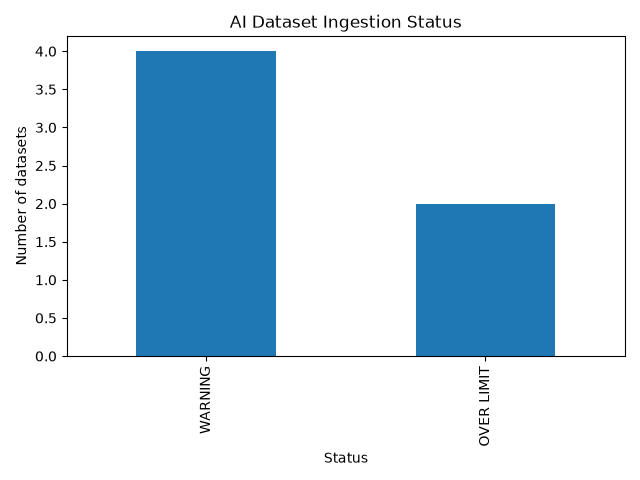
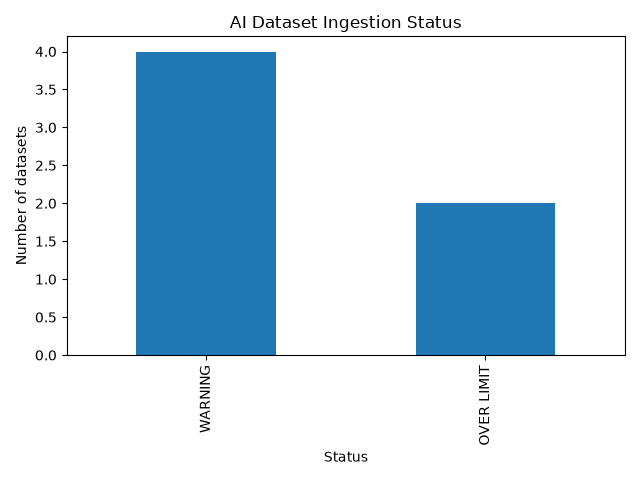
Complete AI data science templates

diff --git a/Week 02/Week 02 - Decisions and Loops/LAB/template.py b/Week 02/Week 02 - Decisions and Loops/LAB/template.py
@@ -1,66 +1,34 @@
-"""
-RECORD CHECK  -  my version
-===========================
+"""Classify AI model confidence scores against a target threshold."""
 
-Name  :
-Lane  :  AI / Cyber / IT      (delete two)
-Date  :
+over_target_count = 0
 
-Run it:   python template.py
+while True:
+    model_name = input("Model name (or 'quit' to finish): ").strip()
+    if model_name.lower() == "quit":
+        break
 
-Work through the numbered sections in order. Each one tells you what it must do.
-Delete these instructions as you replace them with your code.
-"""
+    confidence = float(input("Confidence score (%): "))
+    target = float(input("Target score (%): "))
+    difference = confidence - target
+    percent = (confidence / target) * 100
 
-# ==================================================================== INPUT
-# 1. Ask for your three values.
-#
-#    - the first is TEXT      (a name, a hostname, an IP)  -> no conversion needed
-#    - the second is a NUMBER (use float(), not int())
-#    - the third  is a NUMBER (use float(), not int())
+    if percent >= 100:
+        status = "OVER TARGET"
+        over_target_count += 1
+    elif percent >= 90:
+        status = "WARNING"
+    else:
+        status = "BELOW TARGET"
 
-label = ""      # replace with an input() call
-value = 0.0     # replace with an input() call, converted with float()
-limit = 0.0     # replace with an input() call, converted with float()
+    print()
+    print("=" * 42)
+    print(f"  AI CONFIDENCE CHECK - {model_name}")
+    print("=" * 42)
+    print(f"  Confidence : {confidence:>10.2f} %")
+    print(f"  Target     : {target:>10.2f} %")
+    print(f"  Difference : {difference:>+10.2f} points")
+    print(f"  Relative   : {percent:>10.2f} %")
+    print(f"  Status     : {status}")
+    print("=" * 42)
 
-
-# ================================================================== PROCESS
-# 2. Work out the difference and the percentage.       [Typical and above]
-
-difference = 0.0   # replace with your calculation
-percent = 0.0       # replace with your calculation
-# 3. Decide a status and store it in a variable called status.
-#
-#    Threshold : if / else        -> "OVER LIMIT" or "OK"
-#    Typical   : if / elif / else -> "OVER LIMIT" (100% or more),
-#                                     "WARNING" (90% or more), otherwise "OK"
-
-status = ""   # replace with your if / else (or if / elif / else)
-
-
-# =================================================================== OUTPUT
-# 4. Print the report.
-#
-#    Threshold : the three values you were given, plus status, inside a border
-#    Typical   : add difference and percent, 2 decimal places, right-aligned
-#    Excellent : wrap sections 1-4 in a loop so you can check as many records
-#                as you like in one run - type "quit" as the label to stop.
-#                Keep count of how many came back OVER LIMIT and print that
-#                once, after the loop ends.
-
-print()
-print("=" * 34)
-print(f"  RECORD CHECK  -  {label}")
-print("=" * 34)
-
-# your report lines go here
-
-print("=" * 34)
-
-
-# ==========================================================================
-# 5. Before you finish:
-#
-#    [ ] Run it three times with different numbers
-#    [ ] Run it with a total of 0 and note the error (do not fix it yet)
-#    [ ] Check every variable name says what it holds
+print(f"Models over target: {over_target_count}")

diff --git a/Week 04 - Lists, Dictionaries and Files/LAB/template.py b/Week 04 - Lists, Dictionaries and Files/LAB/template.py
@@ -1,14 +1,14 @@
-"""Load records, calculate their statuses, and save the results."""
+"""Load AI model metrics, calculate statuses, and save the results."""
 
 from pathlib import Path
 
 
-def check_record(value, limit):
-    """Return the free amount, percentage used, and status."""
-    difference = limit - value
-    percent = (value / limit) * 100
+def check_record(value, target):
+    """Return the difference from target, percentage, and status."""
+    difference = value - target
+    percent = (value / target) * 100
     if percent >= 100:
-        status = "OVER LIMIT"
+        status = "OVER TARGET"
     elif percent >= 90:
         status = "WARNING"
     else:
@@ -16,16 +16,16 @@ def check_record(value, limit):
     return difference, percent, status
 
 
-def print_report(label, value, limit, difference, percent, status):
-    """Print a bordered report for one record."""
+def print_report(label, value, target, difference, percent, status):
+    """Print a bordered report for one AI metric."""
     print()
     print("=" * 34)
     print(f"  RECORD CHECK  -  {label}")
     print("=" * 34)
-    print(f"  Used        : {value:>10.2f}")
-    print(f"  Total       : {limit:>10.2f}")
-    print(f"  Free        : {difference:>10.2f}")
-    print(f"  Percent     : {percent:>10.2f} %")
+    print(f"  Measured    : {value:>10.2f}")
+    print(f"  Target      : {target:>10.2f}")
+    print(f"  Difference  : {difference:>+10.2f}")
+    print(f"  Relative    : {percent:>10.2f} %")
     print(f"  Status      : {status:>10}")
     print("=" * 34)
 
@@ -36,9 +36,9 @@ def load_records(path):
     with open(path) as file:
         for line in file:
             if line.strip():
-                label, value, limit = line.strip().split(",")
+                label, value, target = line.strip().split(",")
                 records.append(
-                    {"label": label, "value": float(value), "limit": float(limit)}
+                    {"label": label, "value": float(value), "target": float(target)}
                 )
     return records
 
@@ -53,17 +53,17 @@ except FileNotFoundError:
 over_limit_count = 0
 with open(lab_folder / "results.txt", "w") as results_file:
     for record in records:
-        difference, percent, status = check_record(record["value"], record["limit"])
+        difference, percent, status = check_record(record["value"], record["target"])
         print_report(
             record["label"],
             record["value"],
-            record["limit"],
+            record["target"],
             difference,
             percent,
             status,
         )
         results_file.write(f"{record['label']},{status}\n")
-        if status == "OVER LIMIT":
+        if status == "OVER TARGET":
             over_limit_count += 1
 
-print(f"OVER LIMIT records: {over_limit_count}")
+print(f"OVER TARGET metrics: {over_limit_count}")

diff --git a/Week 01 - Values, Types and Input-Output/LAB/template.py b/Week 01 - Values, Types and Input-Output/LAB/template.py
@@ -1,67 +1,18 @@
-"""
-RECORD CHECK  -  my version
-===========================
+"""Report the size of an AI model against its expected size."""
 
-Name  :
-Lane  :  AI / Cyber / IT      (delete two)
-Date  :
+label = input("Model name: ").strip()
+actual_size = float(input("Actual model size (MB): "))
+expected_size = float(input("Expected model size (MB): "))
 
-Run it:   python template.py
-
-Work through the numbered sections in order. Each one tells you what it must do.
-Delete these instructions as you replace them with your code.
-"""
-
-# ==================================================================== INPUT
-# 1. Ask the user for your three values.
-#
-#    - the first is TEXT      (a name, a hostname, an IP)  -> no conversion needed
-#    - the second is a NUMBER (use float(), not int())
-#    - the third  is a NUMBER (use float(), not int())
-#
-#    Remember: input() always gives back text.
-
-label = ""      # : replace with an input() call
-first = 0.0     # : replace with an input() call, converted
-second = 0.0    # : replace with an input() call, converted
-
-
-# ================================================================== PROCESS
-# 2. Work out what you were NOT given.       [Typical and above]
-#
-#    - difference : how far the first is from the second
-#    - percent    : the first as a percentage of the second
-#
-#    Do not type the answers. Calculate them.
-
-difference = 0.0   # 
-percent = 0.0      # 
-
-
-# =================================================================== OUTPUT
-# 3. Print the report.
-#
-#    Threshold : print the three values you were given, inside a border
-#    Typical   : add difference and percent, 2 decimal places, right-aligned
-#    Excellent : difference always shows its sign, plus one line of your own
-#
-#    Useful:   f"{value:>10.2f}"    right-aligned, 2 decimal places
-#              f"{value:>+10.2f}"   the same, but always shows the sign
+difference = actual_size - expected_size
+percent = (actual_size / expected_size) * 100
 
 print()
-print("=" * 34)
-print(f"  RECORD CHECK  -  {label}")
-print("=" * 34)
-
-# : your report lines go here
-
-print("=" * 34)
-
-
-# ==========================================================================
-# 4. Before you finish:
-#
-#    [ ] Run it three times with different numbers
-#    [ ] Run it with a total of 0 and write the error in your journal
-#    [ ] Check every variable name says what it holds
-#    [ ] Show it to the person next to you
+print("=" * 42)
+print(f"  AI MODEL SIZE CHECK - {label}")
+print("=" * 42)
+print(f"  Actual size   : {actual_size:>10.2f} MB")
+print(f"  Expected size : {expected_size:>10.2f} MB")
+print(f"  Difference    : {difference:>+10.2f} MB")
+print(f"  Expected used : {percent:>10.2f} %")
+print("=" * 42)

diff --git a/Week 03 - Functions and Modules/LAB/template.py b/Week 03 - Functions and Modules/LAB/template.py
@@ -1,49 +1,49 @@
-"""Check records interactively and report their usage percentages."""
+"""Check AI model metrics interactively using reusable functions."""
 
 
 def status_of(percent):
-    """Return a status label for a percentage."""
+    """Return a status label for a model metric percentage."""
     if percent >= 100:
-        return "OVER LIMIT"
+        return "OVER TARGET"
     if percent >= 90:
         return "WARNING"
     return "OK"
 
 
-def check(value, limit):
-    """Return the remaining amount and used percentage."""
-    difference = limit - value
-    percent = (value / limit) * 100
+def check(value, target):
+    """Return the difference from target and relative percentage."""
+    difference = value - target
+    percent = (value / target) * 100
     return difference, percent
 
 
-def print_report(label, value, limit, difference, percent, status):
-    """Print a bordered report for one record."""
+def print_report(label, value, target, difference, percent, status):
+    """Print a bordered report for one AI model metric."""
     print()
     print("=" * 34)
     print(f"  RECORD CHECK  -  {label}")
     print("=" * 34)
-    print(f"  Used        : {value:>10.2f}")
-    print(f"  Total       : {limit:>10.2f}")
-    print(f"  Free        : {difference:>10.2f}")
-    print(f"  Percent     : {percent:>10.2f} %")
+    print(f"  Measured    : {value:>10.2f}")
+    print(f"  Target      : {target:>10.2f}")
+    print(f"  Difference  : {difference:>+10.2f}")
+    print(f"  Relative    : {percent:>10.2f} %")
     print(f"  Status      : {status:>10}")
     print("=" * 34)
 
 
-over_limit_count = 0
+over_target_count = 0
 
 while True:
-    label = input("Record name (or 'quit' to finish): ").strip()
+    label = input("AI metric name (or 'quit' to finish): ").strip()
     if label.lower() == "quit":
         break
 
-    value = float(input("Value used: "))
-    limit = float(input("Total limit: "))
-    difference, percent = check(value, limit)
+    value = float(input("Measured value: "))
+    target = float(input("Target value: "))
+    difference, percent = check(value, target)
     status = status_of(percent)
-    print_report(label, value, limit, difference, percent, status)
-    if status == "OVER LIMIT":
-        over_limit_count += 1
+    print_report(label, value, target, difference, percent, status)
+    if status == "OVER TARGET":
+        over_target_count += 1
 
-print(f"OVER LIMIT records: {over_limit_count}")
+print(f"OVER TARGET metrics: {over_target_count}")

diff --git a/Week 06 - Pandas/LAB/template.py b/Week 06 - Pandas/LAB/template.py
@@ -6,7 +6,10 @@ import matplotlib.pyplot as plt
 # ==================================================================== LOAD
 # 1. Read the AI dataset-ingestion data.
 
-df = pd.read_csv("ai_dataset_loads.csv")
+from pathlib import Path
+
+lab_folder = Path(__file__).resolve().parent
+df = pd.read_csv(lab_folder / "ai_dataset_loads.csv")
 
 
 # ================================================================= PROCESS
@@ -33,7 +36,7 @@ print("\nRows needing attention:")
 print(df[df["status"] != "OK"])
 print("\nCounts by status:")
 print(df["status"].value_counts())
-df.to_csv("ai_dataset_load_report.csv", index=False)
+df.to_csv(lab_folder / "ai_dataset_load_report.csv", index=False)
 
 df["status"].value_counts().plot(
     kind="bar",
@@ -42,8 +45,7 @@ df["status"].value_counts().plot(
     ylabel="Number of datasets",
 )
 plt.tight_layout()
-plt.savefig("ai_dataset_load_status.png")
-plt.show()
+plt.savefig(lab_folder / "ai_dataset_load_status.png")
 
 
 # ==========================================================================

diff --git a/Week 05 - Classes and Objects/LAB/template.py b/Week 05 - Classes and Objects/LAB/template.py
@@ -1,5 +1,7 @@
 """AI model monitoring report using classes and objects."""
 
+from pathlib import Path
+
 # ====================================================================== CLASS
 # 1. Define a class called Record.
 #
@@ -57,7 +59,7 @@ def load_records(path):
 #                lines from a file and returns a list of Record objects. Make
 #                your own data file, one record per line.
 
-records = load_records("ai_metrics.txt")
+records = load_records(Path(__file__).with_name("ai_metrics.txt"))
 
 
 # ==================================================================== OUTPUT
